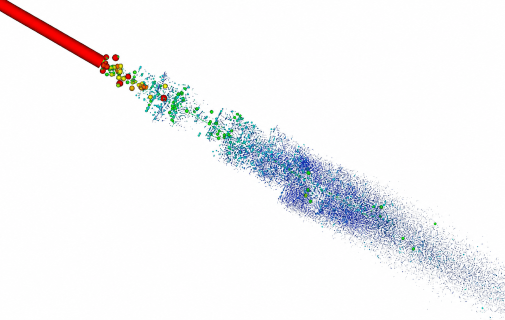
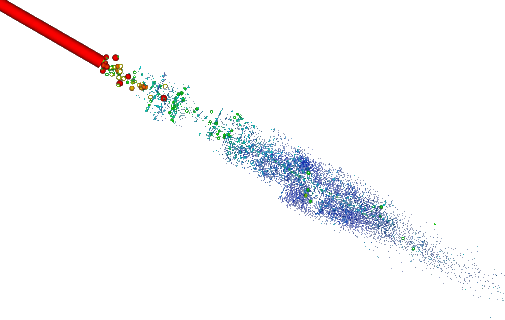
fixed responsive issue with interactive my life + some fixes

Changed region(s): [[0.2079, 0.1875, 1.0, 1.0]]

diff --git a/src/scripts/life-journey.ts b/src/scripts/life-journey.ts
@@ -253,10 +253,13 @@ export function mountLifeJourney(
         frameRequested = false;
         if (disposed) return;
 
-        const readingLine = window.scrollY + window.innerHeight * 0.5;
+        const upperTriggerLine =
+            window.scrollY + window.innerHeight * 0.25;
+        const lowerTriggerLine =
+            window.scrollY + window.innerHeight * 0.75;
         const denominator = Math.max(1, finalAnchor - firstAnchor);
         const nextProgress = clamp(
-            (readingLine - firstAnchor) / denominator,
+            (lowerTriggerLine - firstAnchor) / denominator,
         );
         const nextDirection =
             window.scrollY > previousScrollY
@@ -268,31 +271,28 @@ export function mountLifeJourney(
 
         let activeIndex = 0;
         for (let index = 1; index < milestoneAnchors.length; index += 1) {
-            if (readingLine >= milestoneAnchors[index]) {
+            if (lowerTriggerLine >= milestoneAnchors[index]) {
                 activeIndex = index;
             } else {
                 break;
             }
         }
 
-        const lowerIndex = activeIndex;
-        const upperIndex = Math.min(
-            milestones.length - 1,
-            lowerIndex + 1,
-        );
-        const segmentLength = Math.max(
+        if (
+            activeIndex < milestones.length - 1 &&
+            upperTriggerLine >= milestoneAnchors[activeIndex]
+        ) {
+            activeIndex += 1;
+        }
+
+        const triggerBandHeight = Math.max(
             1,
-            milestoneAnchors[upperIndex] - milestoneAnchors[lowerIndex],
+            lowerTriggerLine - upperTriggerLine,
         );
-        const segmentProgress =
-            readingLine <= firstAnchor
-                ? 0
-                : readingLine >= finalAnchor
-                  ? 1
-                  : clamp(
-                        (readingLine - milestoneAnchors[lowerIndex]) /
-                            segmentLength,
-                    );
+        const segmentProgress = clamp(
+            (lowerTriggerLine - milestoneAnchors[activeIndex]) /
+                triggerBandHeight,
+        );
         const nextStageProgress = stagePositions[activeIndex];
 
         state.targetProgress = nextProgress;

diff --git a/src/styles/global.css b/src/styles/global.css
@@ -1418,8 +1418,9 @@ body:has(.social-link:focus-visible) .footer {
     position: sticky;
     top: 4.25rem;
     z-index: 6;
-    width: fit-content;
-    max-width: 42rem;
+    width: min(39rem, calc(64% - 1rem));
+    max-width: none;
+    box-sizing: border-box;
     margin-bottom: 1.5rem;
     padding: 0.35rem 0.85rem 0.45rem 0;
     background: var(--background);
@@ -1882,6 +1883,8 @@ body:has(.social-link:focus-visible) .footer {
 }
 
 .life-morpheidos-logo {
+    position: relative;
+    z-index: 2;
     width: 100%;
     color: currentColor;
 }
@@ -1890,6 +1893,7 @@ body:has(.social-link:focus-visible) .footer {
     position: absolute;
     top: calc(100% + 0.75rem);
     left: 50%;
+    z-index: 2;
     display: flex;
     width: max-content;
     align-items: center;
@@ -2126,6 +2130,7 @@ body:has(.social-link:focus-visible) .footer {
 @media (max-width: 900px) {
     .life-journey-header {
         top: 1rem;
+        width: calc(59.2% - 0.8rem);
     }
 
     .life-journey-layout {

diff --git a/src/content/bio.md b/src/content/bio.md
@@ -12,7 +12,7 @@ institution: |
 ---
 <meta name="description" content="..." />
 
-I am a **mechanical engineer** who enjoys turning complicated technical problems into workable solutions. I work with systems in motion, from rigid structures to fluid flow, and use design and analysis to make them perform as intended. I also enjoy the collaborative side of engineering, bringing people and technical work together from early design through validation and implementation.
+I am a **mechanical design engineer** with a background in the high-tech and energy industries. I enjoy analysis and work with systems in motion, from rigid structures to fluid flow.
 
 <!-- As a **Mechanical Engineer** with a background in thermo-fluid systems and precision hardware, I specialize in mechanical design and engineering analysis. I support mechanical development through design, analysis, validation and technical problem-solving. Alongside my technical work, I have developed project coordination and stakeholder management experience that helps me move engineering activities from analysis and design through validation and implementation. -->
 
